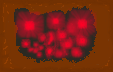
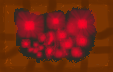
GasStation/Ore art

diff --git a/HGDArcadia/MyGame/src/Tile.java b/HGDArcadia/MyGame/src/Tile.java
@@ -15,18 +15,20 @@ public class Tile {
 	static Image store;
 	static Image saveLocation;
 	static Image craftingBuilding;
+	static Image gasStation;
 	static Image dirt;
 	static Image blueOre;
 	static Image greenOre;
 	static Image pinkOre;
 	static Image yellowOre;
-	static Image multicolorOre;
 	static Image redOre;
 	static Image starOre;
 	static Image circleOre;
+	static Image multicolorOre;
 	static Image dirtBackground;
 	static Image skyBackground;
 	static Image net;
+	static Image death;
 
 	static {
 		try {
@@ -35,7 +37,7 @@ public class Tile {
 			greenOre = ImageIO.read(MyGame.class.getResource("images/GreenOre.png"));
 			pinkOre = ImageIO.read(MyGame.class.getResource("images/PinkOre.png"));
 			yellowOre = ImageIO.read(MyGame.class.getResource("images/YellowOre.png"));
-			multicolorOre = ImageIO.read(MyGame.class.getResource("images/FancyShmansyOre.png"));
+			multicolorOre = ImageIO.read(MyGame.class.getResource("images/FancyShmansyOre2.png"));
 			redOre = ImageIO.read(MyGame.class.getResource("images/RedOre.png"));
 			starOre = ImageIO.read(MyGame.class.getResource("images/SilverOre.png"));
 			circleOre = ImageIO.read(MyGame.class.getResource("images/FancyCirclyOre.png"));
@@ -44,7 +46,9 @@ public class Tile {
 			dirtBackground = ImageIO.read(MyGame.class.getResource("images/DirtBackground.png"));
 			skyBackground = ImageIO.read(MyGame.class.getResource("images/SkyBackground.png"));
 			craftingBuilding = ImageIO.read(MyGame.class.getResource("images/CraftingBuilding.png"));
+			gasStation = ImageIO.read(MyGame.class.getResource("images/GasStation.png"));
 			net = ImageIO.read(MyGame.class.getResource("images/Net.png"));
+			death = ImageIO.read(MyGame.class.getResource("images/Death.png"));
 		} catch (IOException e) {
 			e.printStackTrace();
 		}
@@ -107,7 +111,7 @@ public class Tile {
 		} else if (tileType == 10) {
 			g.drawImage(multicolorOre, (int) (x * tileSizeW), (int) (y * tileSizeH), 113, 72, null);
 		} else if (tileType == 21) {
-			g.drawImage(multicolorOre, (int) (x * tileSizeW), (int) (y * tileSizeH), 113, 72, null);
+			g.drawImage(death, (int) (x * tileSizeW), (int) (y * tileSizeH), 113, 72, null);
 		}else if (tileType == 25) {
 			g.drawImage(net, (int) (x * tileSizeW), (int) (y * tileSizeH), 113, 72, null);
 		} else if (tileType == 99) {
@@ -118,6 +122,9 @@ public class Tile {
 		} else if (tileType == 96) {
 			g.drawImage(skyBackground, (int) (x * tileSizeW), (int) (y * tileSizeH), 113, 72, null);
 			g.drawImage(craftingBuilding, (int) (x * tileSizeW), (int) (y * tileSizeH), 113, 72, null);
+		} else if (tileType == 95) {
+			g.drawImage(skyBackground, (int) (x * tileSizeW), (int) (y * tileSizeH), 113, 72, null);
+			g.drawImage(gasStation, (int) (x * tileSizeW), (int) (y * tileSizeH), 113, 72, null);
 		} else if (tileType == 0) {
 			if (col < 18) {
 				g.drawImage(skyBackground, (int) (x * tileSizeW), (int) (y * tileSizeH), 113, 72, null);
